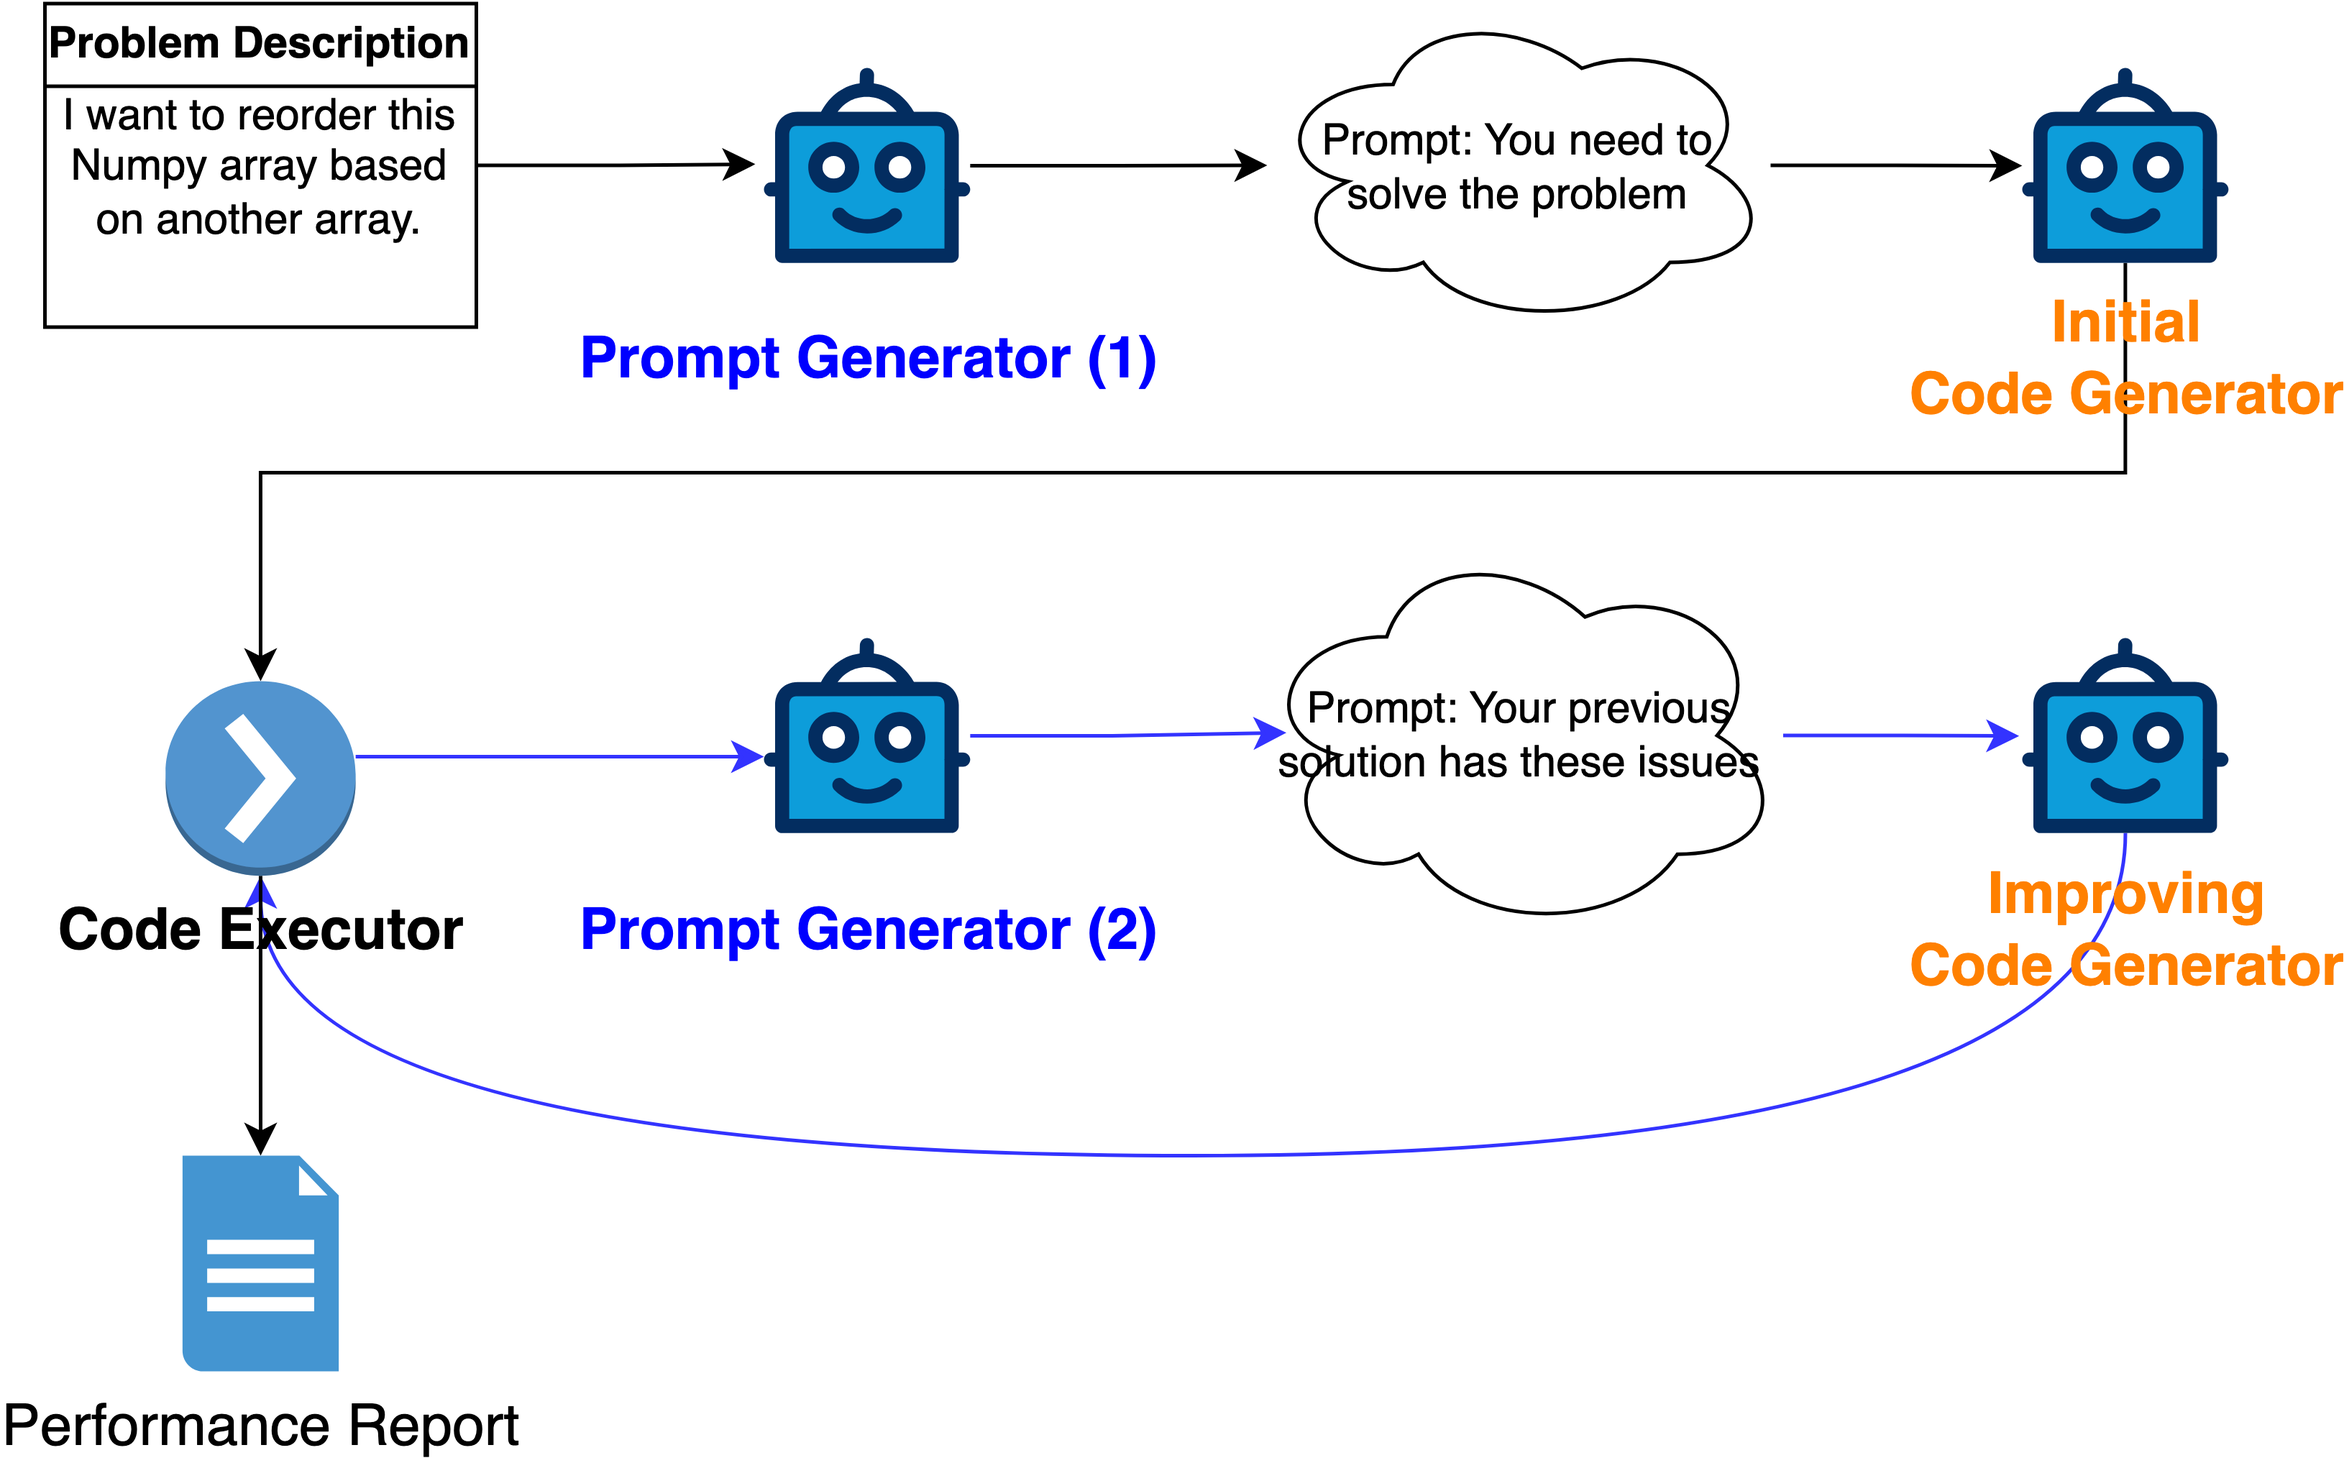
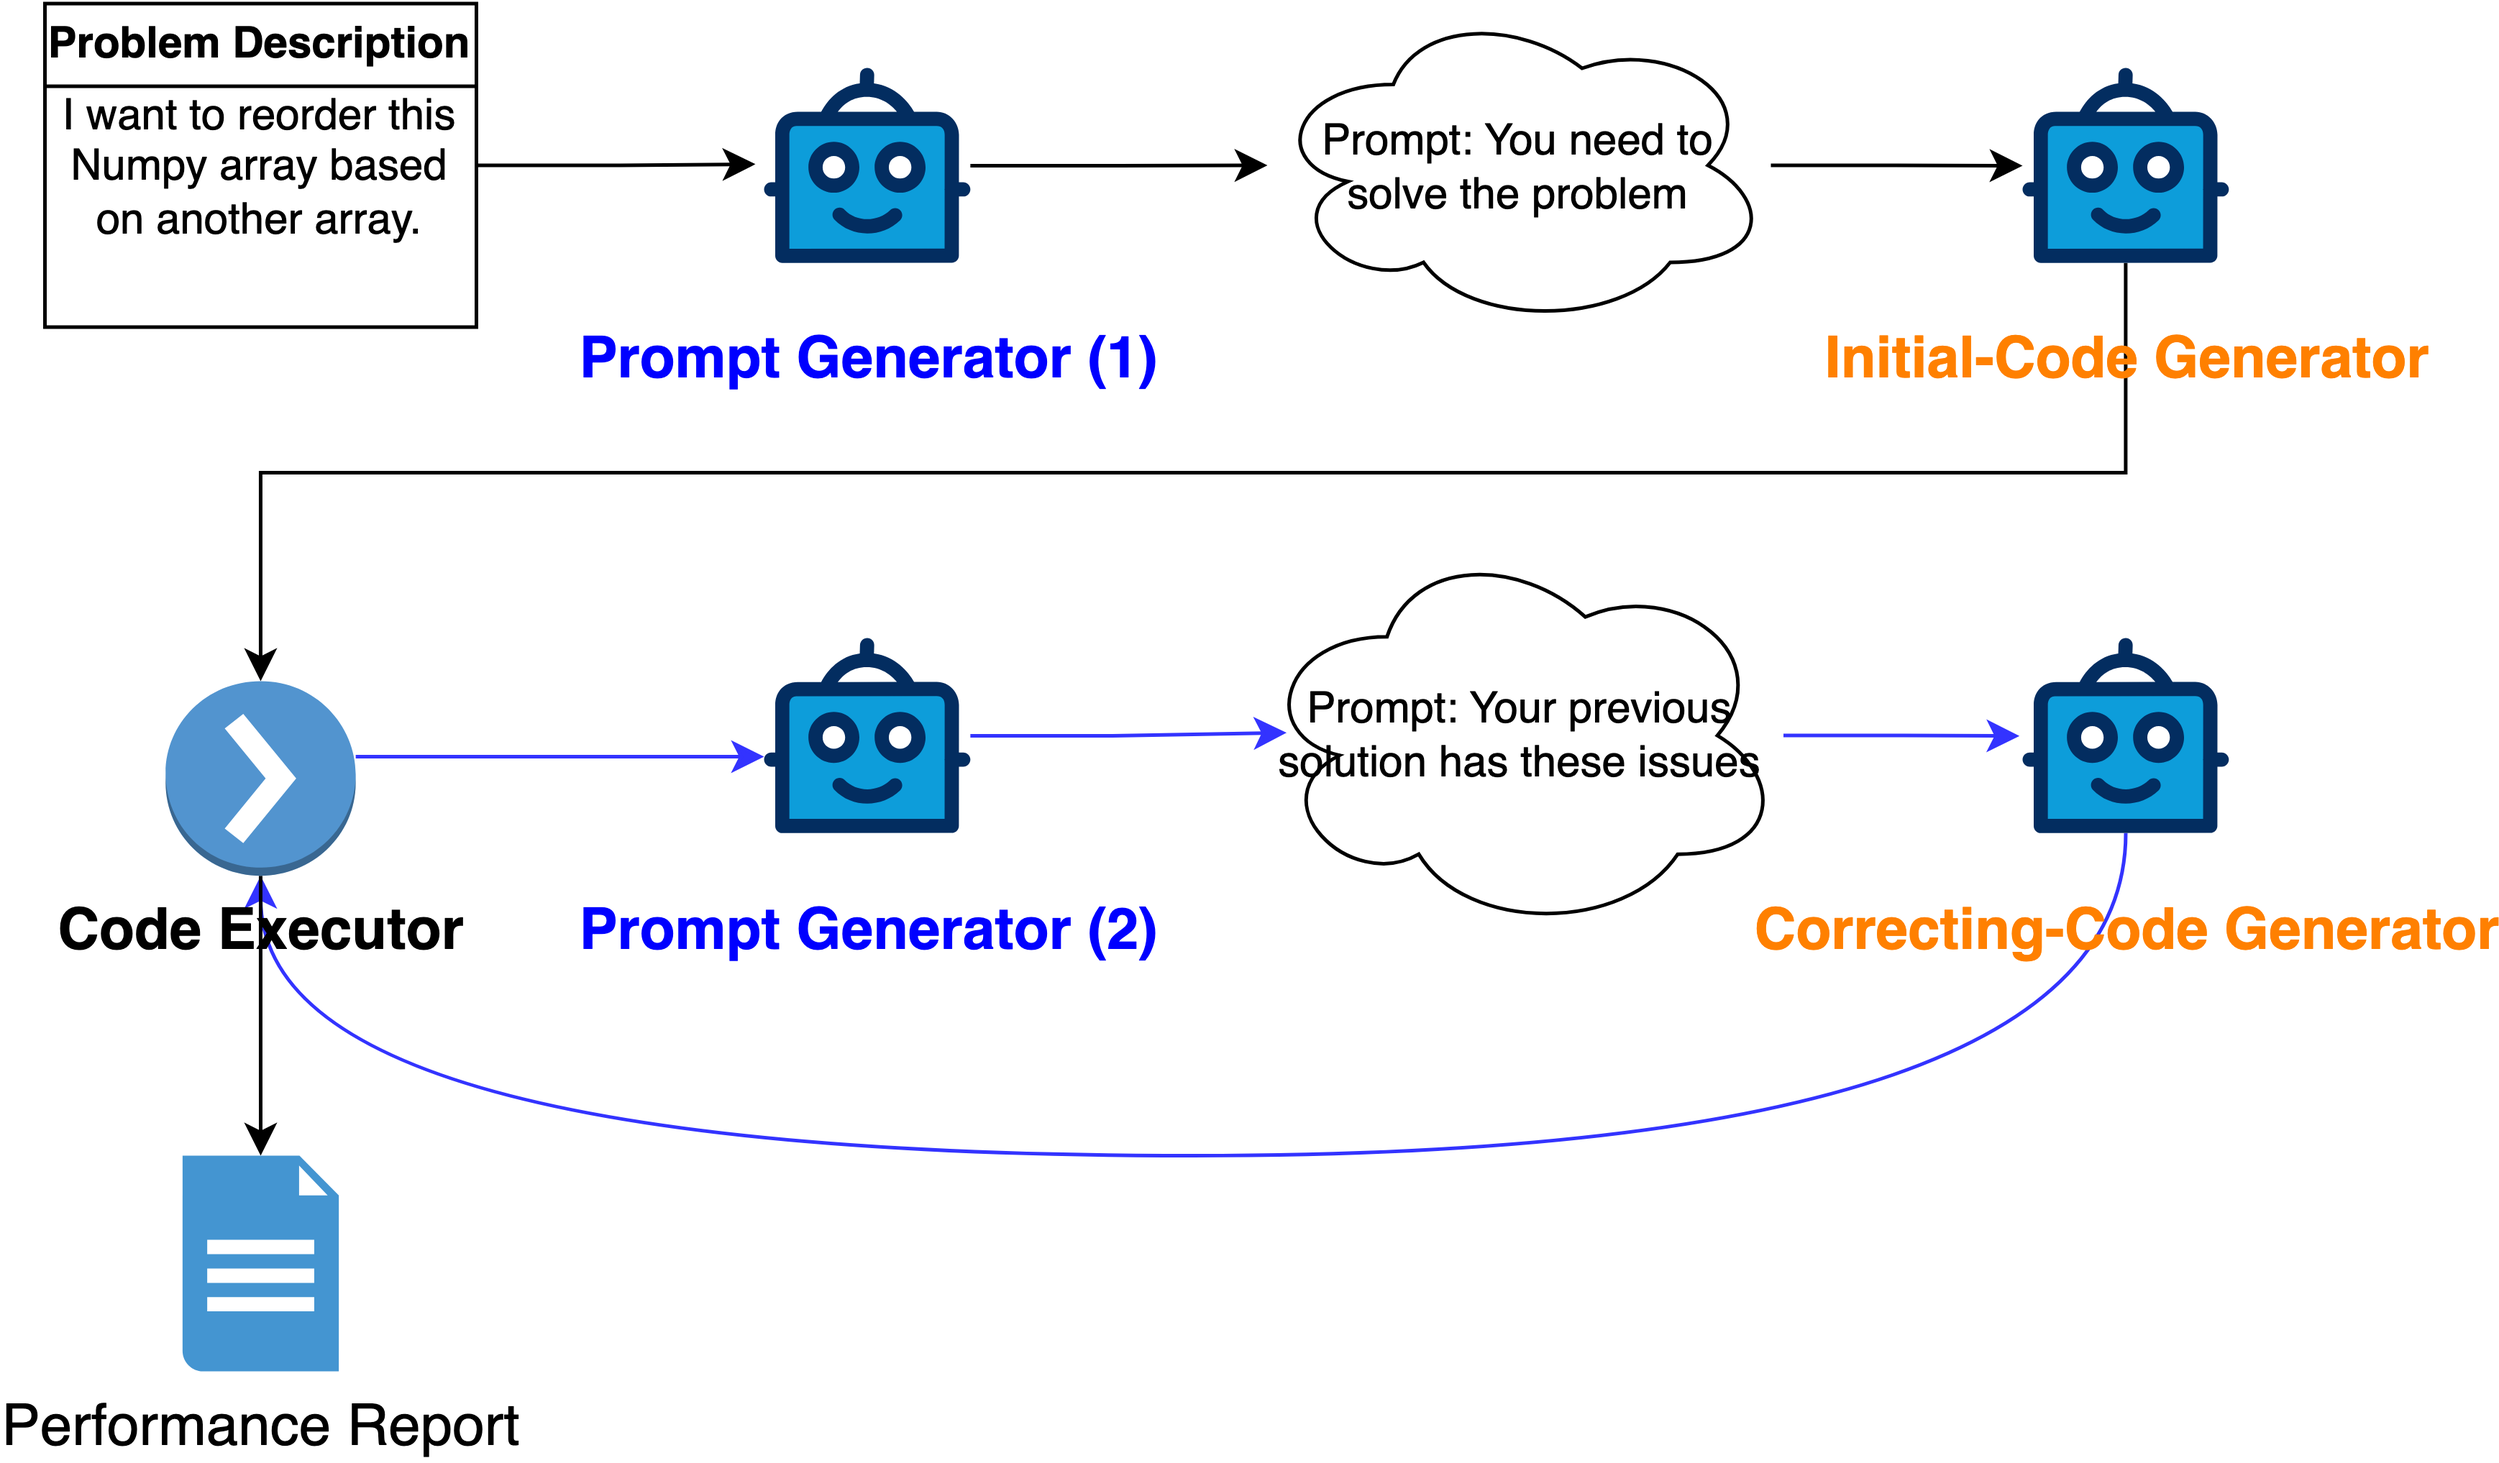
feat: add progress update after complete feedback loop

diff --git a/thesis/pre/docs/presentation/sections/progress.tex b/thesis/pre/docs/presentation/sections/progress.tex
@@ -13,7 +13,7 @@
     Completed:
     \begin{itemize}
         \item Prompt Generator (1) with Zero-shot prompts (baseline)
-        \item Initial Code Generator with ChatGPT 3.5 API
+        \item Initial-Code Generator with ChatGPT 3.5 API
         \item Code Executor on Virtual environment to run test cases
         \item Performance Report using accuracy score
     \end{itemize}
@@ -36,26 +36,50 @@
     Next Steps:
     \begin{itemize}
         \item Prompt Generator (2) with CoT prompts based on code execution feedback
-        \item Improving Code Generator
+        \item Correcting-Code Generator
     \end{itemize}
 \end{frame}
 
-\begin{frame}{Progress Update \: 25 Mar 2024}
+\begin{frame}{Progress Update \: 29 Mar 2024}
     Completed:
     \begin{itemize}
         \item Prompt Generator (1) with CoT prompts
+        \item Prompt Generator (2) with direct feedback from code execution
+        \item Correcting-Code Generator
     \end{itemize}
 
-    Baseline Results:
+    Improved Results:
     \begin{tabular}{lr}
         Library    & Accuracy \\
         \hline
-        Matplotlib & 31.61\%  \\
-        Scipy      & 12.26\%  \\
-        Pandas     & 4.47\%   \\
-        Numpy      & 5.00\%   \\
-        Sklearn    & 6.09\%   \\
-        Tensorflow & 13.33\%  \\
-        Pytorch    & 4.41\%   \\
+        Matplotlib & 41.94\%  \\
+        Scipy      & 16.98\%  \\
+        Pandas     & 23.71\%  \\
+        Numpy      & 15.91\%  \\
+        Sklearn    & 41.74\%  \\
+        Tensorflow & 28.89\%  \\
+        Pytorch    & 38.24\%  \\
     \end{tabular}
+\end{frame}
+
+\begin{frame}{Progress Update \: 29 Mar 2024}
+    Example of CoT prompt:
+
+    Here are some step-by-step suggestions to help solve the problem:
+
+    1. \textbf{Suggestion 1}: First, let's understand the problem. The goal is to shuffle the order of the DataFrame's rows according to a given list. The list represents the desired order of the rows.
+
+    2. \textbf{Suggestion 2}: To achieve this, we can use the `iloc' function in pandas to select the rows of the DataFrame based on the given list. The `iloc' function allows us to select rows by their integer position.
+
+    3. \textbf{Suggestion 3}: Start by creating a new DataFrame that contains the shuffled rows. You can do this by using the `iloc' function with the given list as the index. For example, `shuffled\_df = df.iloc[List]`.
+
+    4. \textbf{Suggestion 4}: Finally, assign the shuffled DataFrame to the `result' variable. This will be the solution to the problem. For example, `result = shuffled\_df`.
+\end{frame}
+
+\begin{frame}{Progress Update \: 29 Mar 2024}
+    Next Steps:
+    \begin{itemize}
+        \item Analyze the failed test cases to improve the Prompt Generator (2)
+        \item Connect with more LLMs: Claude 2.0, GPT-4, etc.
+    \end{itemize}
 \end{frame}
